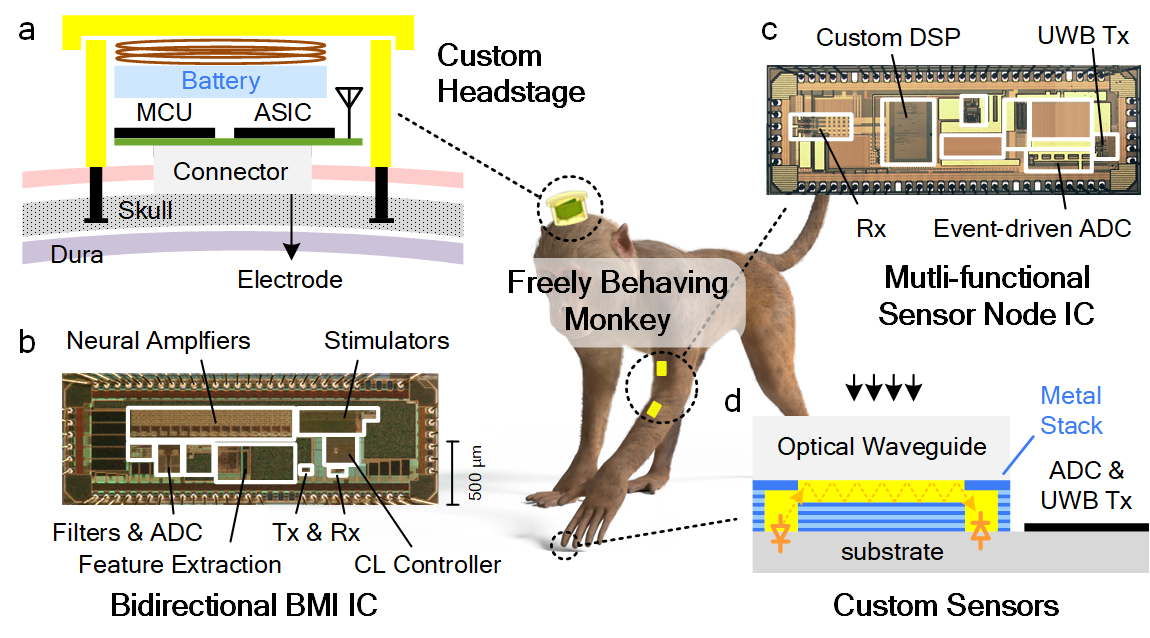
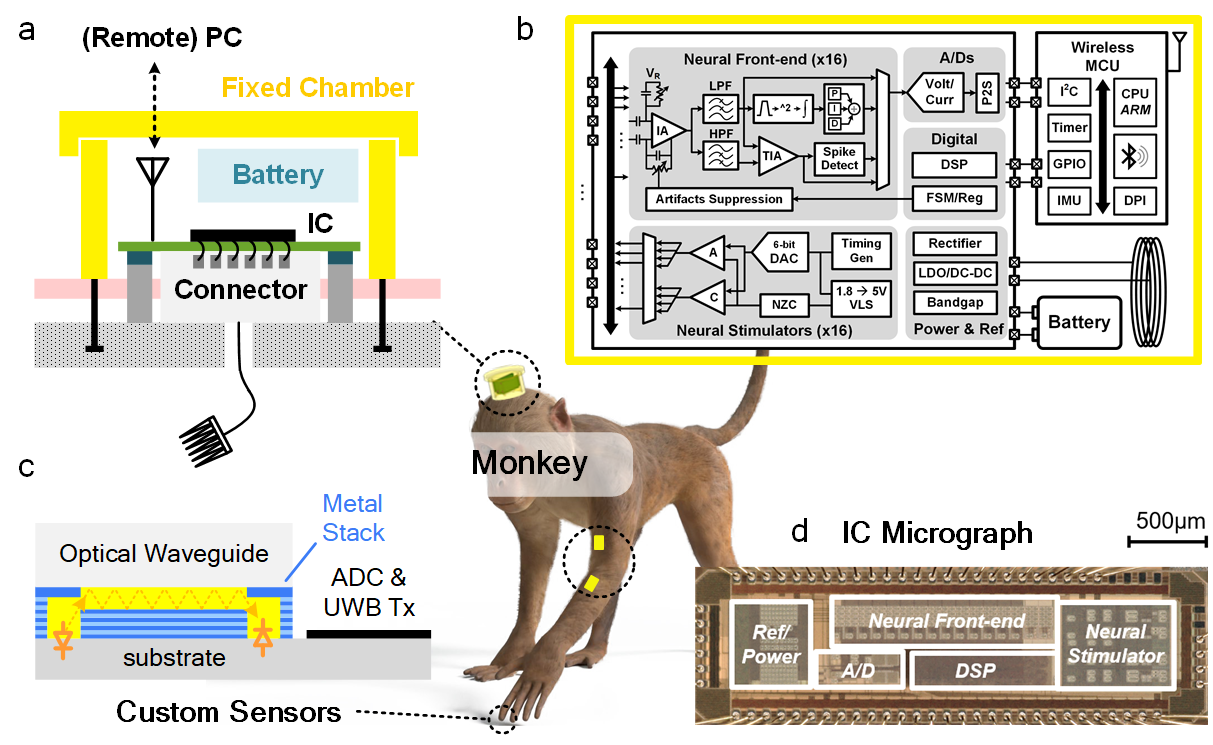
update figures and text

diff --git a/bk/index_20201208.html b/bk/index_20201208.html
@@ -194,17 +194,28 @@
          <hr>
 		<p>The human brain is among the most complex and mysterious objects in our known universe. It operates in a fascinating mechanism that we still know very little about. Brain-Machine Interface (BMI) is a technology that creates direct communication pathways between the brain and the external world, which opens the door for us to truly understand and learn from the brain. The field of BMI grows rapidly in recent years, and has shown thrilling advancements and applications in medicine, neuroscience, and engineering. </p>
 			
-		<p>My research develops electronic BMIs that not only read neural signals from the brain (neural decoding), but also write information back to the brains (neural encoding). Moreover, by integrating real-time signal processing and machine learning on-chip, the developed BMIs are capable of closed-loop neuromodulation and therapeutic intervention. Through close collaboration with neuroscientists, I was among the first to develop bidirectional BMIs for sensorimotor neuromodulation in freely behaving animal models. My work, the PennBMBI, has become a popular benchmark in this emerging area [J10]. With this advantageous BMI paradigm, we have successfully uncovered a number of neuroscience mechanisms in sensorimotor and cognitive processes [J2-8]. </p>			
+		<p>My research develops electronic BMIs that not only read neural signals from the brain (neural decoding), but also write information back to the brains (neural encoding). Moreover, by integrating real-time signal processing and machine learning on-chip, the developed BMIs are capable of closed-loop neuromodulation and therapeutic intervention. Through close collaboration with neuroscientists, I am among the first to develop bidirectional BMIs for sensorimotor neuromodulation in freely behaving animal models. My work, the PennBMBI, has become a popular benchmark in this emerging area [J10]. With this advantageous BMI paradigm, we have successfully uncovered a number of neuroscience mechanisms in sensorimotor and cognitive processes (Fig. 1) [J2-8]. </p>			
+			
+		<p><div class="row justify-content-md-around m-1">
+		<picture>
+			  <img src="./img/research_highlights.png" alt="research_overview" width="520px" class="mr-3 img-fluid">
+		</picture>
+        </div></p>
+		<em>Fig. 1 (Top) Brain areas and interfacing modalities investigated in my research. (Bottom) Key domain expertises and research methodologies. </em>
+		<br><br>
+						
+		  
+		<!-- The key goal of my research is to conquer these limitations by developing closed-loop, bidirectional, wireless BMIs for unrestrained animal experiments. Through close collaboration with neuroscientists, I’ve been among the first to develop wireless sensor-BMI systems for closed-loop sensorimotor neuromodulation. My work, the PennBMBI, has become a popular benchmark in this emerging area. Novel experiments on freely behaving animals (including monkeys and rats) enabled by the PennBMBI system have successfully uncovered neuroscience mechanisms of active sensing strategies, sensation restoration, and memory consolidation. I’ve also developed wireless neuroprosthetics for augmenting perception and restoring sensation through modulated stimulation. -->
 
 		<p>A key contribution of my research lies in BMI design for sensory encoding. Although motor decoding and sensory encoding are equally important in nervous systems, BMI researches have been primarily focused on motor decoding. This is partially due to the lack of experimental paradigms and engineering tools in investigating sensory encoding. My research fills this important gap by introducing wireless sensor network and machine-learning based sensory modulation algorithms into the BMI system (Fig. 2). With this new sensory-BMI paradigm, we successfully investigated encoding mechanisms in several animal models with encouraging outcomes. Our experiments, for the first time, show that animals not only can feel the artificially encoded sensory signals, but also can actively adjust the motor strategies to minimize the efforts in extracting the encoded information [J3]. 
-		</p>
+		  </p>
 
-    <p><div class="row justify-content-md-around m-1">
+        <p><div class="row justify-content-md-around m-1">
 		<picture>
 			  <img src="./img/bmi_diagram.png" alt="research_overview" width="380px" class="mr-3 img-fluid">
 		</picture>
-    </div></p>
-		<em>Fig. 1 A BMI-based neural prosthetic system capable of closed-loop motor decoding and sensory encoding. </em>
+        </div></p>
+		<em>Fig. 2 A BMI-based neural prosthetic system capable of closed-loop motor decoding and sensory encoding. </em>
 		<br><br>			
 			
 <!--
@@ -225,7 +236,7 @@
 		<p><picture>
 			<img width="520" src="./img/project_watermaze.png" alt="monkey_exp" class="justify-content-center img-fluid">
 		</picture></p>	
-		<em>Fig. 2 (a) Experimental setup of the active sensing study, (b) the system block diagram of the wireless sensory encoding BMI device, and (c) the micrograph of the fabricated IC.</em>			
+		<em>Fig. 3 (a) Experimental setup of the study, which is a variant of the Morris Watermaze experiment, (b) the microphotograph of the fabricated IC, (c) system block diagram of the wireless sensory encoding BMI device.</em>			
 		</div><br>
 
 		<p><picture>
@@ -233,7 +244,7 @@
 			<img width="250" src="./media/rat2_crop.gif" alt="rat_exp2" class="justify-content-center img-fluid"><br>
 		</picture></p>	
 		<p>
-		<em>Fig. 3 Videos of pre-learning trial without sensory encoding (left), and post-learning trial with sensory encoding by modulated stimulation (right).</em></p>
+		<em>Fig. 4 Videos of pre-learning trial without sensory encoding (left), and post-learning trial with sensory encoding by modulated stimulation (right).</em></p>
 		<br>
 		
 
@@ -247,7 +258,7 @@
 		<p><picture>
 			<img width="520" src="./img/project_monkey.png" alt="project_sensory_encoding" class="justify-content-center img-fluid">
 		</picture></p>
-		<p><em>Fig. 4 Developed ICs and systems for sensory encoding experiments in freely behaving monkeys. (a) the custom-designed chronic headstage chamber, (b) the system block diagram of the BMI device, (c) the miniature force sensor based on optical waveguide, and (d) the micrograph of the fabricated IC. </em></p>
+		<p><em>Fig. 5 Developed ICs and systems for sensory encoding experiments in freely behaving monkeys. (a) the custom-designed headstage for chronic recording and stimulaiton, (b & c) the microphotographs of the fabricated BMI ICs, (d) the miniature force sensor based on optical waveguide.</em></p>
 		</div>
 		<br>
 
@@ -260,7 +271,7 @@
 			<img width="530" src="./img/project_dl.png" alt="project_dl_inference" class="justify-content-center img-fluid">
 		</picture></p>
 		<p>
-		<em>Fig. 5 A BMI with on-the-edge Inference of a convolutional neural netowrk (CNN) for closed-loop epileptic seizure detection and intervention.</em>			
+		<em>Fig. 6 A BMI with on-the-edge Inference of a convolutional neural netowrk (CNN) for closed-loop epileptic seizure detection and intervention.</em>			
 		</p>
 		</div>
 		<br>
@@ -281,7 +292,7 @@
       <img width="520" src="./img/project_ecsnr.png" alt="project_cs" class="justify-content-center img-fluid">
     </picture></p>
     <p>
-    <em>Fig. 6 Illustration of the proposed neural recording system with compressed-sensing based encryption.</em>      
+    <em>Fig. 7 Illustration of the proposed neural recording system with compressed-sensing based encryption.</em>      
     </p>
     </div>
 		<br>
